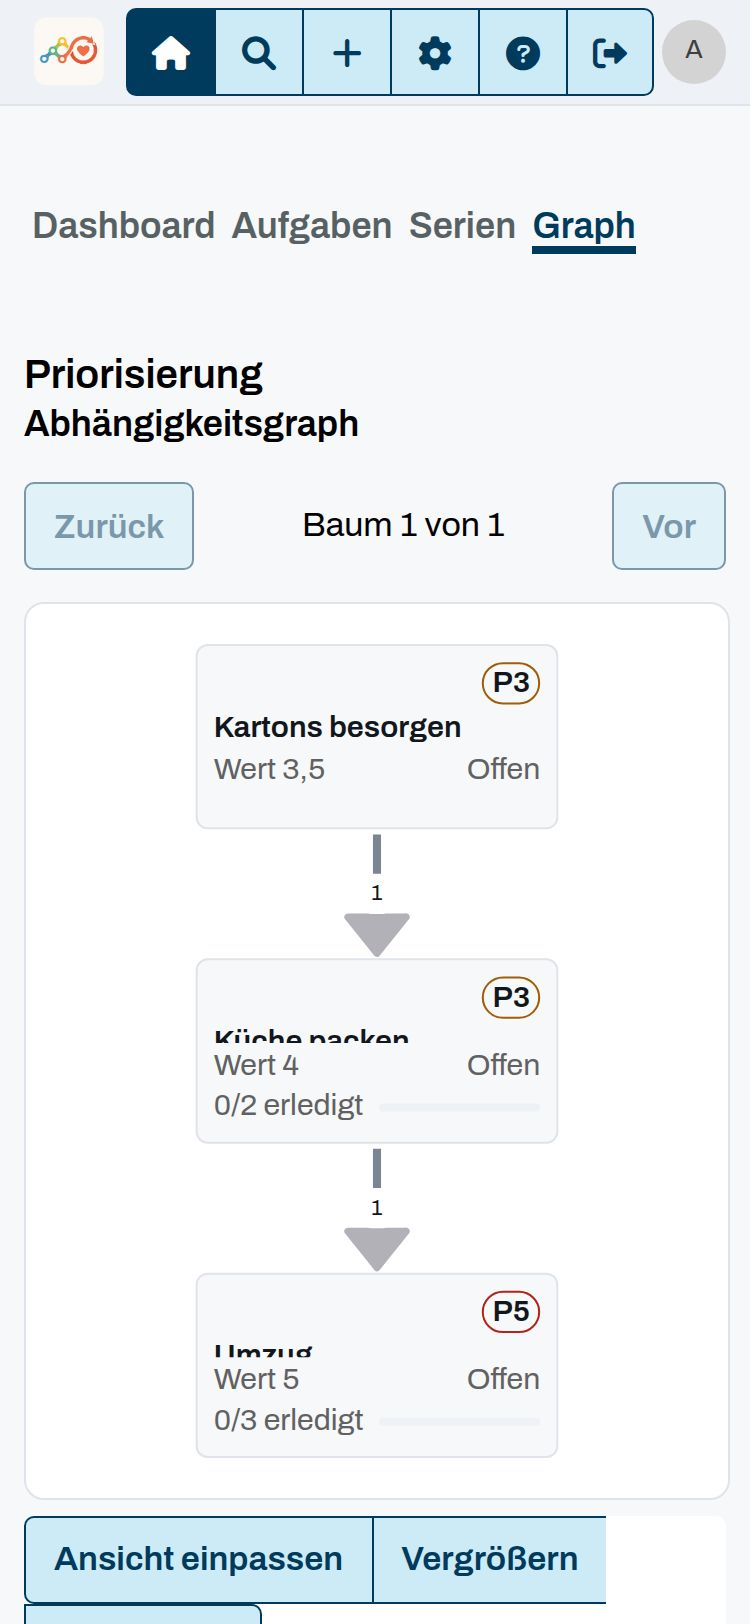
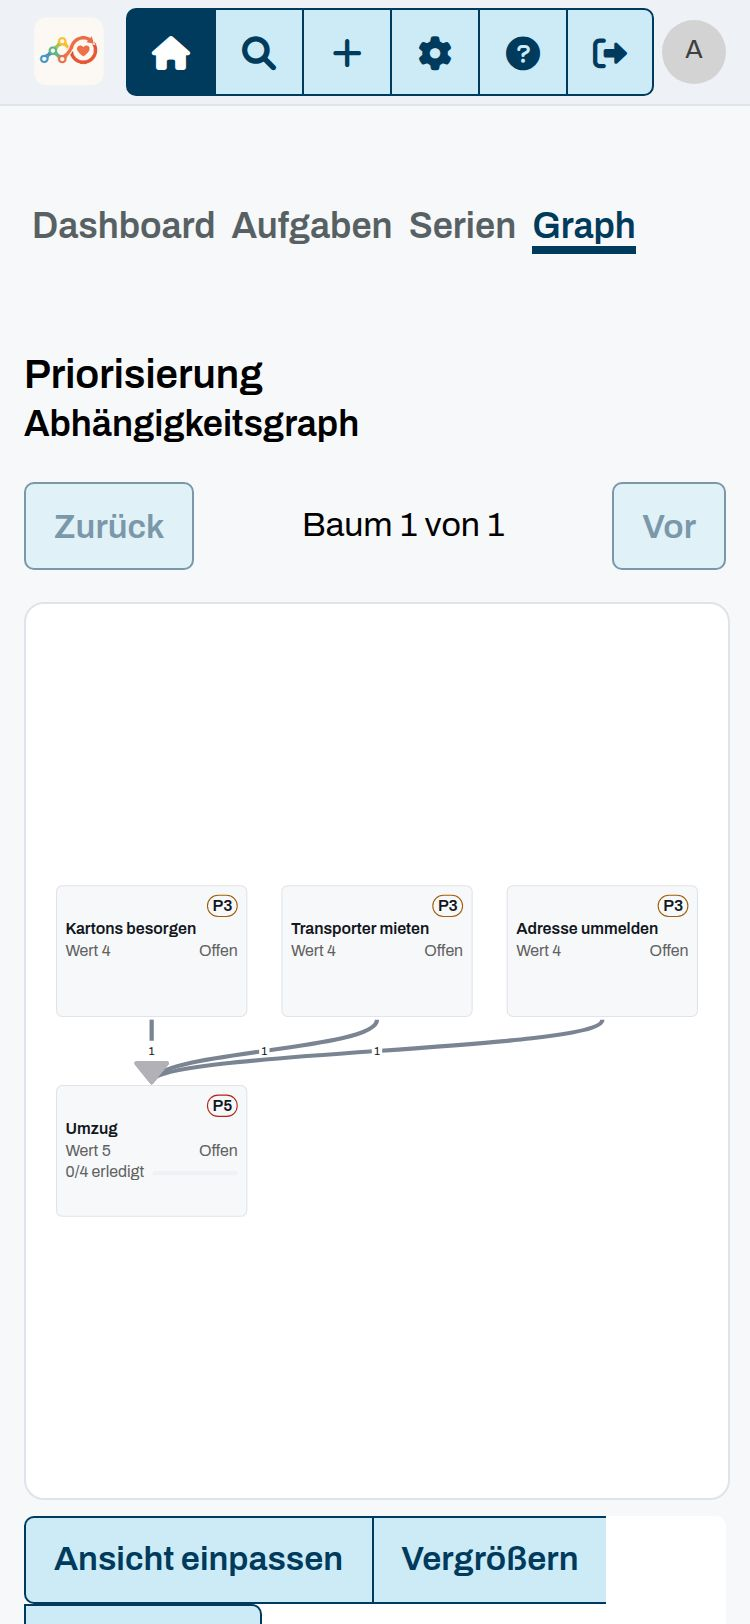
fix(frontend): Graph-Knoten schneiden den Titel nicht mehr ab
Titel, Wert- und Fortschrittszeile passten nicht in die feste Knotenhöhe von 92 px;
der Titel wurde gestaucht und mitten in der Zeile abgeschnitten. Knotenhöhe auf
124 px (NODE_HEIGHT und CSS), Titel schrumpft nie. Regressionstest in
task-graph.spec.ts.

Landing-Screenshot des Graphen zeigt jetzt ein Ziel mit drei Vorarbeiten.

Claude-Session: https://claude.ai/code/session_0114r8WtaJwU2qnVBYv8RCYX

diff --git a/frontend/e2e/landing-shots.spec.ts b/frontend/e2e/landing-shots.spec.ts
@@ -72,12 +72,20 @@ const seed = async (page: Page): Promise<void> => {
 			await page.request.patch(`/api/v1/tasks/${id}`, { data: { status: 'Done' } });
 		}
 	}
-	// Eine Kette für den Abhängigkeitsgraphen: Der Umzug wartet auf die Küche, die auf die Kartons.
-	const kartons = await task('Kartons besorgen', 3, { deadline: inDays(1) });
-	const kueche = await task('Küche packen', 3, { deadline: inDays(3) });
+	// Ein verzweigter Graph: Der Umzug wartet auf drei Vorarbeiten. Zwei Ebenen bleiben auf dem Handy
+	// lesbar, eine dritte legte das Layout so, dass Kanten durch fremde Knoten laufen.
 	const umzug = await task('Umzug', 2, { priority: 5, deadline: inDays(5) });
-	await page.request.post(`/api/v1/tasks/${kueche}/dependencies`, { data: { dependingTaskId: kartons } });
-	await page.request.post(`/api/v1/tasks/${umzug}/dependencies`, { data: { dependingTaskId: kueche } });
+	for (const [title, days] of [
+		['Kartons besorgen', 1],
+		['Transporter mieten', 3],
+		['Adresse ummelden', 6],
+	] as const) {
+		const predecessor = await task(title, 3, { deadline: inDays(days) });
+		const response = await page.request.post(`/api/v1/tasks/${umzug}/dependencies`, {
+			data: { dependingTaskId: predecessor },
+		});
+		expect(response.ok(), await response.text()).toBeTruthy();
+	}
 	await task('Yoga-Kurs buchen', 0, { priority: 4, deadline: inDays(2) });
 	await task('Geburtstagsgeschenk für Lea', 2, { priority: 4, deadline: inDays(4) });
 };

diff --git a/frontend/e2e/task-graph.spec.ts b/frontend/e2e/task-graph.spec.ts
@@ -166,6 +166,26 @@ test.describe('Aufgabengraph (Tab „Wald")', () => {
 		await expect(page.getByText('Aktuelle Vorgänger')).toBeVisible();
 	});
 
+	test('Ein Knoten mit Fortschritt zeigt seinen zweizeiligen Titel ungekürzt', async ({ page }) => {
+		// Titel, Wert-Zeile und Fortschritts-Zeile passten nicht in die alte Knotenhöhe: der Titel
+		// wurde gestaucht und mitten in der Zeile abgeschnitten.
+		const parentId = await createTask(page, uniqueTitle('Umzug in die neue Wohnung'));
+		for (const label of ['Kartons', 'Transporter']) {
+			await addDependency(page, parentId, await createTask(page, uniqueTitle(label)));
+		}
+
+		await page.goto('/app/');
+		await waitForStableView(page);
+		await openGraphTab(page);
+
+		const node = page.getByTestId(`graph-node-${parentId}`);
+		await expect(node.getByText(/\d+\/\d+ erledigt/)).toBeVisible();
+		const clipped = await node.evaluate((element) =>
+			[element, element.querySelector('.task-graph-node__title')!].map((part) => part.scrollHeight - part.clientHeight),
+		);
+		expect(clipped).toEqual([0, 0]);
+	});
+
 	test('Bei 375 px bleibt der Graph in der Viewportbreite', async ({ page }) => {
 		await page.setViewportSize({ width: 375, height: 812 });
 

diff --git a/frontend/src/app.css b/frontend/src/app.css
@@ -1616,7 +1616,8 @@ kol-toolbar {
 .task-graph-node {
 	box-sizing: border-box;
 	width: 180px;
-	height: 92px;
+	/* = NODE_HEIGHT (graphLayout.ts): Platz für zweizeiligen Titel, Wert- und Fortschritts-Zeile. */
+	height: 124px;
 	display: flex;
 	flex-direction: column;
 	gap: 2px;
@@ -1687,6 +1688,8 @@ kol-toolbar {
 }
 
 .task-graph-node__title {
+	/* Nie stauchen: sonst schneidet der Knoten den Titel mitten in der Zeile ab statt per Ellipse. */
+	flex-shrink: 0;
 	margin: 0;
 	font-weight: var(--pp-weight-bold);
 	/* Zwei Zeilen, danach Ellipse — der volle Titel steht in der Listenansicht. */

diff --git a/frontend/src/lib/graphLayout.ts b/frontend/src/lib/graphLayout.ts
@@ -2,7 +2,7 @@ import type { TaskGraph, TaskGraphEdge, TaskGraphNode } from 'client';
 
 /** Feste Knotengröße — dieselben Werte gelten im CSS (`.task-graph-node`). */
 export const NODE_WIDTH = 180;
-export const NODE_HEIGHT = 92;
+export const NODE_HEIGHT = 124;
 /** Abstände aus der Spacing-Skala (16er-Raster). */
 const GAP_X = 32;
 const GAP_Y = 64;
